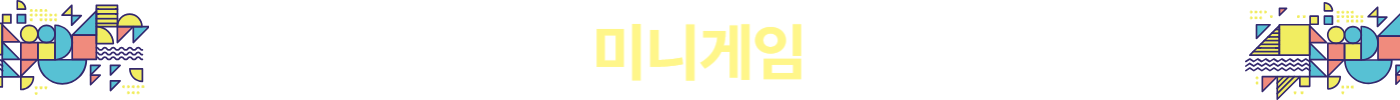
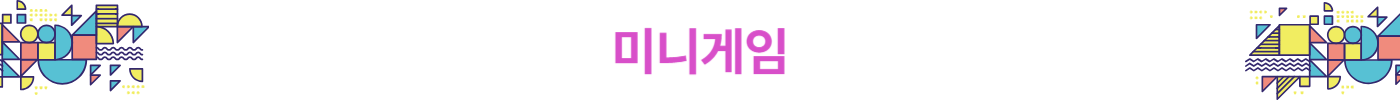
Mini Game.jsp [FINISHED]

Changed region(s): [[0.3993, 0.24, 0.5836, 0.81]]

diff --git a/WebContent/css/style_game.css b/WebContent/css/style_game.css
@@ -7,16 +7,25 @@
 ul.tab_wr { list-style: none; padding-left: 0; }
 .tabmenu { max-width: 1400px; margin: 0 auto; position: relative; }
 .tabmenu ul { position: relative; }
-.tabmenu ul li { display: inline-block; width: 50%; float: left; text-align: center; background: #f9f9f9; line-height: 40px; }
+.tabmenu ul li { display: inline-block; width: 50%; float: left; text-align: center; background: #f9f9f9; line-height: 40px; color: #333; display: inline-block; height: 100%;}
 .tabmenu label { display: block; width: 100%; height: 60px; line-height: 60px; cursor: pointer; }
 .tabmenu input { display: none; }
 .tabCon { display: none; width: 100%; height: 450px; text-align: left; padding: 20px 0; position: absolute; left: 0; top: 40px; box-sizing: border-box; }
 .tabCon .tab_inner {  }
-.tabmenu input:checked ~ label { background: #fcc; }
+.tabmenu input:checked ~ label { background: #D84FC9; color: #fff; font-weight: bold; }
 .tabmenu input:checked ~ .tabCon { display: flex; align-content: center; align-items: center; justify-content: center; }
 
-.tab_inner ul .lotto-number { width: 150px; height: 150px; line-height:100px; display: inline-block; margin: 10px; padding: 20px; background-color: #f00; /* 예시로 금색 배경 사용 */
- color: #fff; border-radius: 50%; font-size: 18px; }
+.tab_inner ul .lotto-number { width: 150px; height: 150px; line-height:100px; display: inline-block; margin: 10px; padding: 20px; /* 예시로 금색 배경 사용 */
+ color: #fff; border-radius: 50%; font-size: 18px; box-shadow: 1px 1px 10px 0px #bbb; }
+ 
+ .new-btn { background: #D84FC9; color: #fff; text-align:center; margin-top: 20px; }
+ .new-btn:hover { box-shadow: 1px 1px 10px 0px #bbb; color: #D84FC9; border: 2px solid #D84FC9; box-sizing: border-box; }
+ 
+.ten { background: #EEB4B3 !important; }
+.twenty { background: #C179B9 !important; }
+.thirty { background: #A42CD6 !important; }
+.forty { background: #502274 !important; }
+.last { background: #2F242C !important; }
 
 .card { margin: 0 25px; }
 .card img { width: 100%; }
